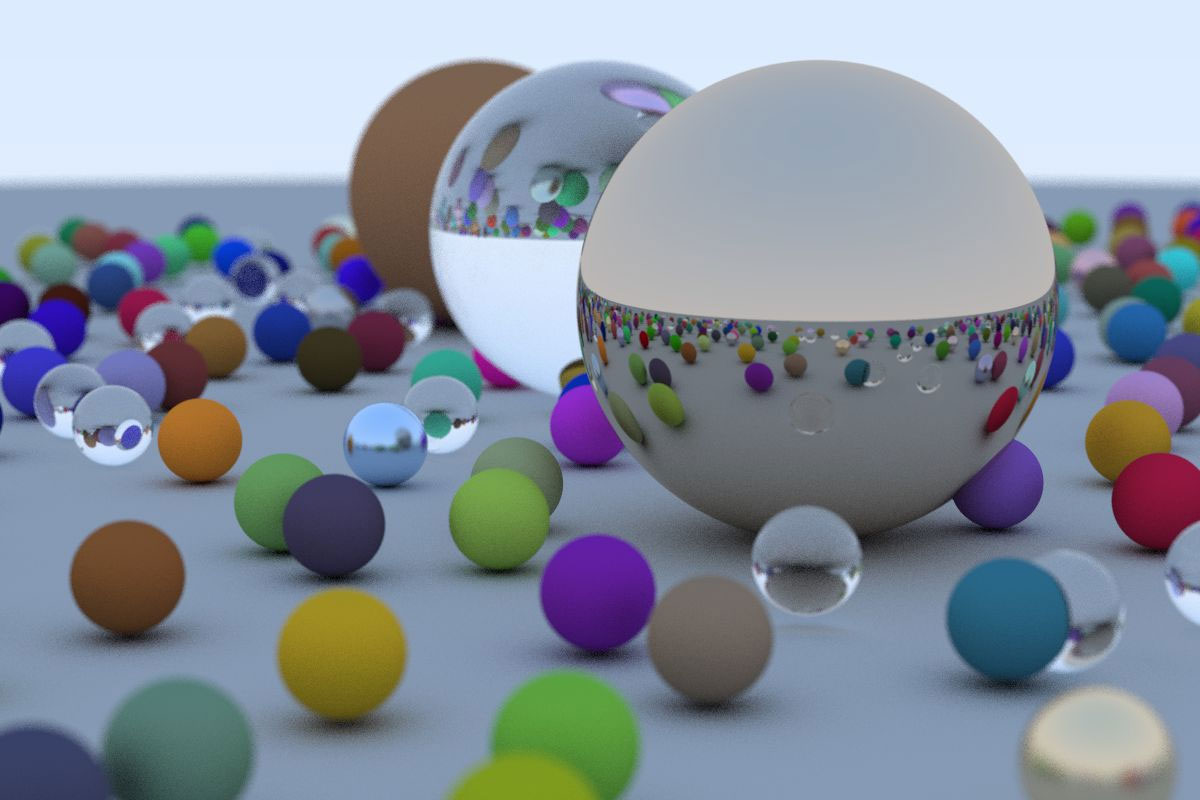
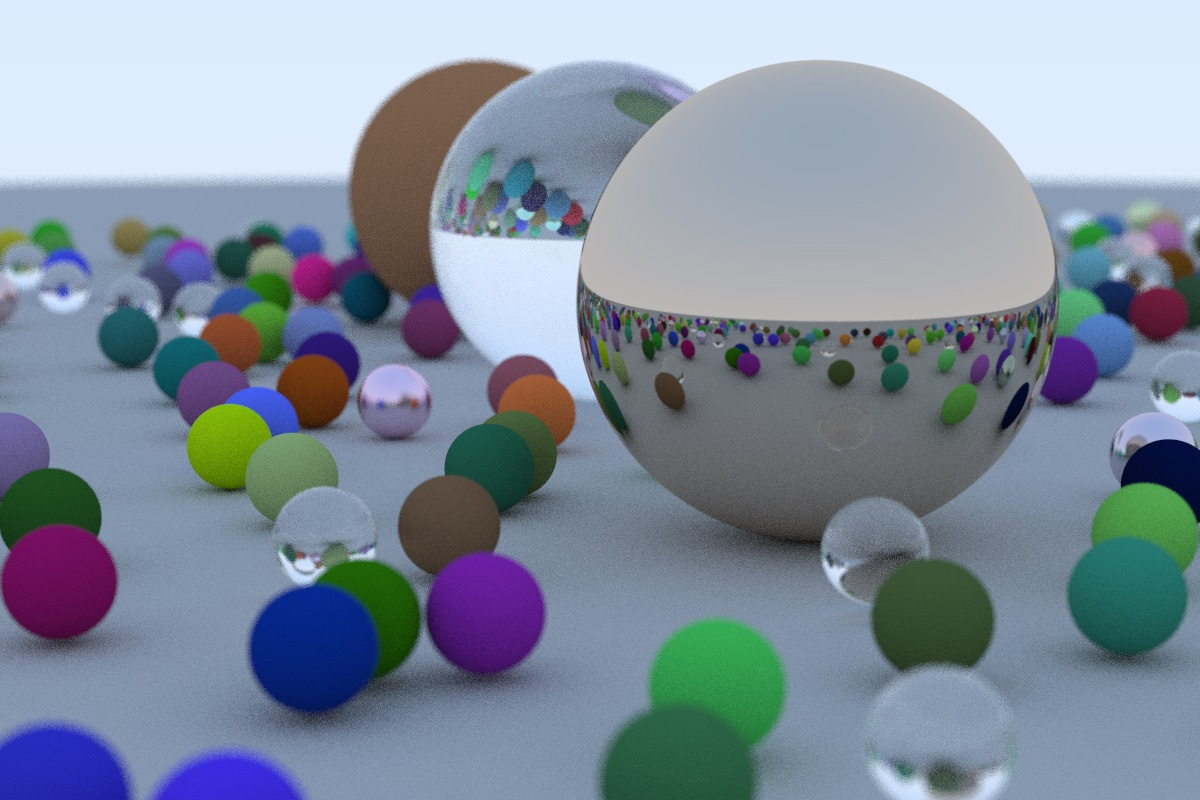
Update book1 images, plus fixed diffuse
This is copied from PR #182, targeting the development branch. Original
commentary:

Ran the PNGs through pngquant+Zopfli to reduce file sizes, but as
expected they are a bit larger. All the images add ~180 kilobytes to
previous book size.

Also the fix for "incorrect" diffuse (#181) is reflected in the
screenshots. Resulting AO effect is slightly less intense than before,
but more correct.

Also in one place fixed source to compile and the color in the source to
match the color of the sphere in the screenshot.

Images in Book 2 and 3 are "not too bad"; they are larger and JPG
artifacts aren't as visible there. Also they are much slower to render,
and I'm lazy... :)

diff --git a/books/RayTracingInOneWeekend.html b/books/RayTracingInOneWeekend.html
@@ -108,7 +108,7 @@ There are some things to note in that code:
 Opening the output file (in ToyViewer on my mac, but try it in your favorite viewer and google “ppm
 viewer” if your viewer doesn’t support it) shows:
 
-  ![Image 2-2](../images/img-1-02-2.jpg)
+  ![Image 2-2](../images/img-1-02-2.png)
 
 </div>
 
@@ -400,7 +400,7 @@ short, between two things. A lerp is always of the form
 
 with $t$ going from zero to one. In our case this produces:
 
-  ![Image 4-1](../images/img-1-04-1.jpg)
+  ![Image 4-1](../images/img-1-04-1.png)
 
 </div>
 
@@ -494,7 +494,7 @@ that hits a small sphere we place at -1 on the z-axis:
 <div class='together'>
 What we get is this:
 
-  ![Image 5-1](../images/img-1-05-1.jpg)
+  ![Image 5-1](../images/img-1-05-1.png)
 
 </div>
 
@@ -565,7 +565,7 @@ normal, we need the hit point, not just whether we hit or not. Let’s assume th
 <div class='together'>
 And that yields this picture:
 
-  ![Image 6-1](../images/img-1-06-1.jpg)
+  ![Image 6-1](../images/img-1-06-1.png)
 
 </div>
 
@@ -787,7 +787,7 @@ And the new main:
 This yields a picture that is really just a visualization of where the spheres are along with their
 surface normal. This is often a great way to look at your model for flaws and characteristics.
 
-  ![Image 6-2](../images/img-1-06-2.jpg)
+  ![Image 6-2](../images/img-1-06-2.png)
 
 </div>
 
@@ -960,7 +960,7 @@ Main is also changed:
 Zooming into the image that is produced, the big change is in edge pixels that are part background
 and part foreground:
 
-  ![Image 7-1](../images/img-1-07-1.jpg)
+  ![Image 7-1](../images/img-1-07-1.png)
 
 </div>
 
@@ -1040,7 +1040,7 @@ Then update the `ray_color()` function to use the new random direction generator
 <div class='together'>
 This gives us:
 
-  ![Image 8-1](../images/img-1-08-1.jpg)
+  ![Image 8-1](../images/img-1-08-1.png)
 
 </div>
 
@@ -1077,7 +1077,7 @@ square-root:
 <div class='together'>
 That yields light grey, as we desire:
 
-  ![Image 8-2](../images/img-1-08-2.jpg)
+  ![Image 8-2](../images/img-1-08-2.png)
 
 </div>
 
@@ -1308,7 +1308,7 @@ metal spheres:
 
     ~~~~~~~~~~~~~~~~~~~~~~~~~~~~~~~~~~~~~~~~~~~~~~~~~~~~~~~~~~~~~~~~~~~~~~~~ C++ highlight
         hittable *list[4];
-        list[0] = new sphere(vec3(0,0,-1), 0.5, new lambertian(vec3(0.8, 0.3, 0.3)));
+        list[0] = new sphere(vec3(0,0,-1), 0.5, new lambertian(vec3(0.7, 0.3, 0.3)));
         list[1] = new sphere(vec3(0,-100.5,-1), 100, new lambertian(vec3(0.8, 0.8, 0.0)));
         list[2] = new sphere(vec3(1,0,-1), 0.5, new metal(vec3(0.8, 0.6, 0.2)));
         list[3] = new sphere(vec3(-1,0,-1), 0.5, new metal(vec3(0.8, 0.8, 0.8)));
@@ -1335,7 +1335,7 @@ metal spheres:
 <div class='together'>
 Which gives:
 
-  ![Image 9-1](../images/img-1-09-1.jpg)
+  ![Image 9-1](../images/img-1-09-1.png)
 
 </div>
 
@@ -1396,7 +1396,7 @@ get one on the inside. A do/while construct is perfect for that.
 <div class='together'>
 We can try that out by adding fuzziness 0.3 and 1.0 to the metals:
 
-  ![Image 9-2](../images/img-1-09-2.jpg)
+  ![Image 9-2](../images/img-1-09-2.png)
 
 </div>
 
@@ -1414,7 +1414,7 @@ The hardest part to debug is the refracted ray. I usually first just have all th
 there is a refraction ray at all. For this project, I tried to put two glass balls in our scene, and
 I got this (I have not told you how to do this right or wrong yet, but soon!):
 
-  ![Image 10-1](../images/img-1-10-1.jpg)
+  ![Image 10-1](../images/img-1-10-1.png)
 
 </div>
 
@@ -1513,7 +1513,7 @@ If we try that out with these parameters:
 
 We get:
 
-  ![Image 10-2](../images/img-1-10-2.jpg)
+  ![Image 10-2](../images/img-1-10-2.png)
 
 </div>
 
@@ -1616,7 +1616,7 @@ to make a hollow glass sphere:
 <div class='together'>
 This gives:
 
-  ![Image 10-3](../images/img-1-10-3.jpg)
+  ![Image 10-3](../images/img-1-10-3.png)
 
 </div>
 
@@ -1687,7 +1687,7 @@ When calling it with camera `cam(90, double(nx)/ny)` and these spheres:
 
 gives:
 
-  ![Image 11-1](../images/img-1-11-1.jpg)
+  ![Image 11-1](../images/img-1-11-1.png)
 
 </div>
 
@@ -1763,11 +1763,11 @@ This allows us to change the viewpoint:
 
 to get:
 
-  ![Image 11-2](../images/img-1-11-2.jpg)
+  ![Image 11-2](../images/img-1-11-2.png)
 
 And we can change field of view to get:
 
-  ![Image 11-3](../images/img-1-11-3.jpg)
+  ![Image 11-3](../images/img-1-11-3.png)
 
 </div>
 
@@ -1883,7 +1883,7 @@ Using a big aperture:
 
 We get:
 
-  ![Image 12-1](../images/img-1-12-1.jpg)
+  ![Image 12-1](../images/img-1-12-1.png)
 
 </div>
 
